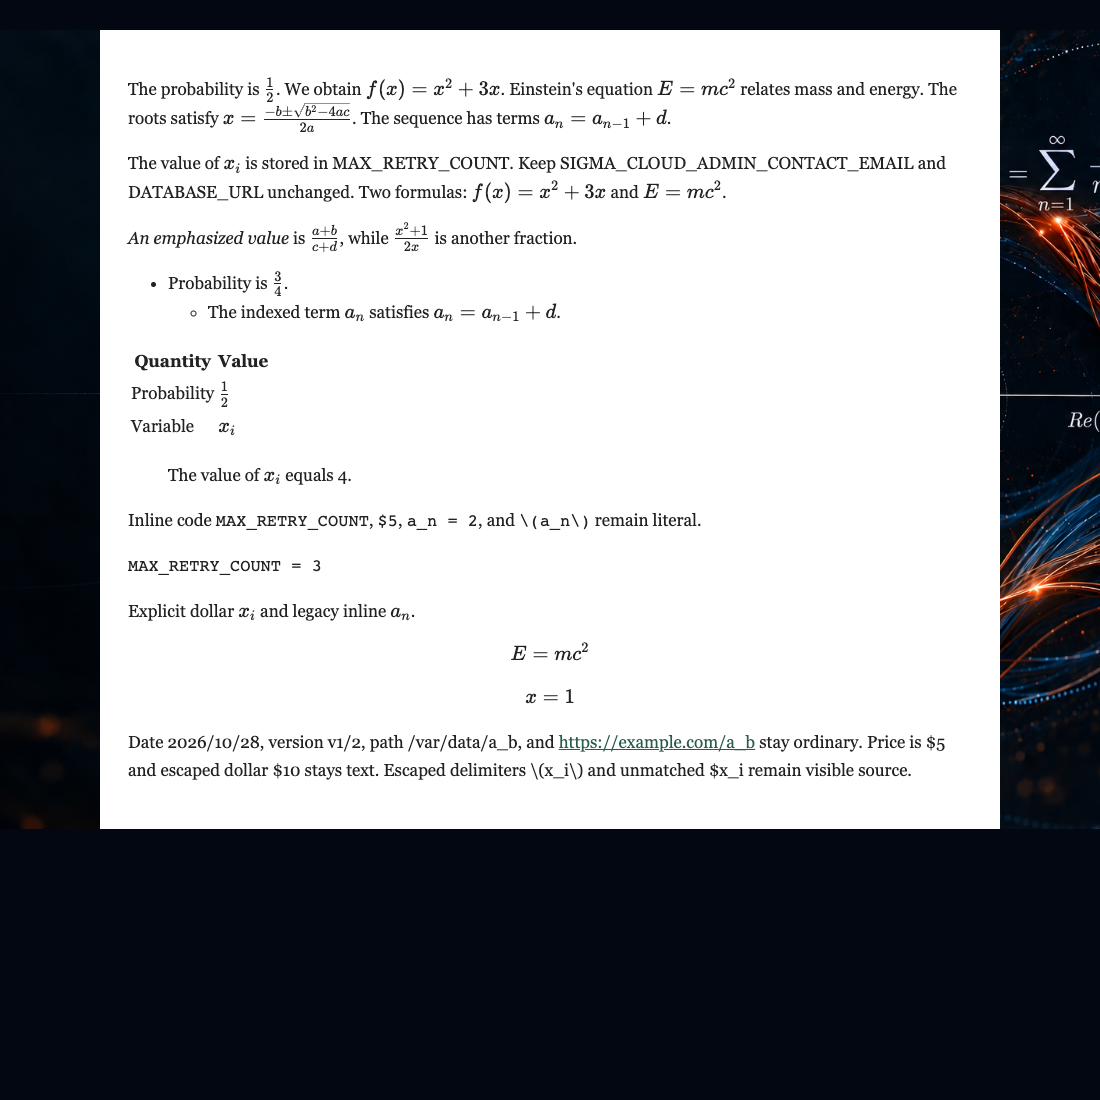
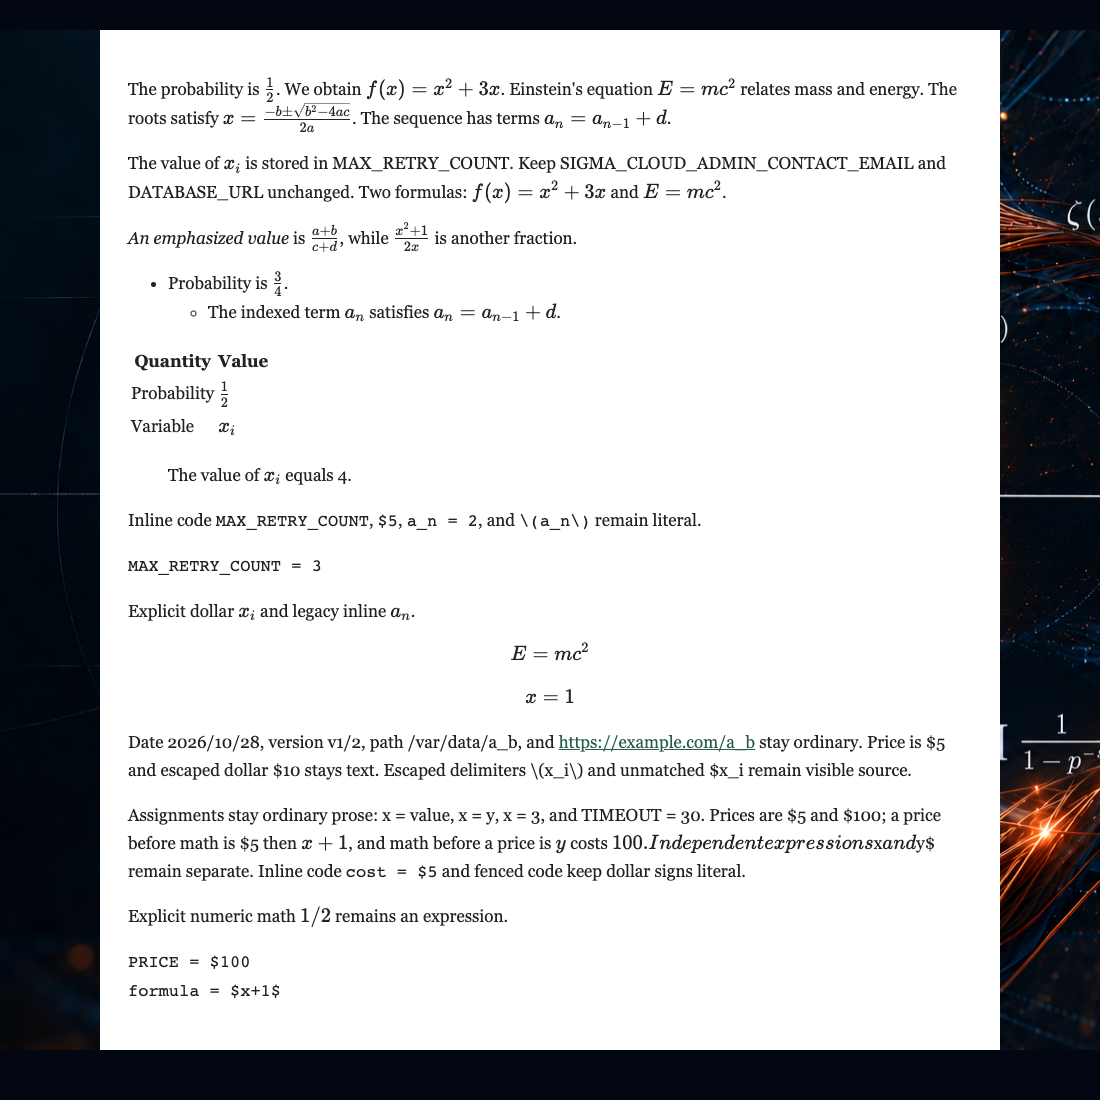
Refine math equation and currency recognition

diff --git a/frontend/src/RenderedMarkdown.tsx b/frontend/src/RenderedMarkdown.tsx
@@ -72,7 +72,14 @@ function candidates(text: string, structuralContext = ''): Candidate[] {
   // A local equation is a mathematical span even when ordinary prose follows it.
   add(/\b(?:[a-zα-ω]|[A-Z])(?:_[a-zA-Zα-ωΑ-Ω\d{}+-]+)?(?:\([^()\s]{1,24}\))?\s*=\s*[\p{L}\p{N}²³√±−+*/^_{}()\[\]\-]+(?:\s*[=+−*/±]\s*[\p{L}\p{N}²³√±−+*/^_{}()\[\]\-]+)*/gu, 6, match => {
     const expression = match[0].trim().replace(/[.,;:!?]+$/u, '');
-    if (!/[\p{L}\d]/u.test(expression.slice(expression.indexOf('=') + 1))) return false;
+    const equalsAt = expression.indexOf('=');
+    const right = expression.slice(equalsAt + 1).trim();
+    if (!/[\p{L}\d]/u.test(right)) return false;
+    const boundary = Math.max(text.lastIndexOf('.', match.index), text.lastIndexOf('!', match.index), text.lastIndexOf('?', match.index), text.lastIndexOf(';', match.index), 0);
+    const precedingSentence = text.slice(Math.max(boundary, match.index - 100), match.index).toLowerCase();
+    const hasMathematicalCue = /\b(?:equation|root|roots|sequence|term|variable|function|probability|fraction|ratio|solution|solve|formula|identity|satisf(?:y|ies)|denote|defined|let|obtain|substitute|calculate|compute|evaluate|algebraic|mathematical)\b/u.test(precedingSentence);
+    const hasFormulaStructure = /[+−\-*/^_{}²³√±×÷<>≤≥≠≈∑∫]/u.test(right);
+    if (!hasFormulaStructure && !hasMathematicalCue) return false;
     // Trim a natural-language continuation after a mathematical expression.
     const trimmed = expression.replace(/\s+(?:(?:relates|where|which|that|and|or|for|with|from|to|is|are|was|were|because|since|as|if|then)\b|[A-Z][a-z]+(?:['’]s)?\s+equation\b)[\s\S]*$/u, '').trim();
     if (trimmed.length < 3) return false;
@@ -198,16 +205,25 @@ export function markdownWithMathDelimiters(body: string): string {
         positions.push(index);
       }
       const unmatched = new Set<number>();
-      for (let index = 0; index < positions.length; index += 2) {
-        const open = positions[index];
-        const close = positions[index + 1];
-        const looksLikeCurrency = close !== undefined
-          && /^\d/u.test(segment[open + 1] ?? '')
-          && /^\d+\s/u.test(segment.slice(open + 1, close));
-        if (close === undefined || looksLikeCurrency) {
-          unmatched.add(open);
-          if (close !== undefined) unmatched.add(close);
-        }
+      // Currency markers are literal individually, before pairing math markers.
+      // This permits "$5 then $x+1$" and "$x+1$ costs $100" without allowing a
+      // price to consume the opening/closing delimiter of a neighboring formula.
+      const isCurrency = (position: number) => {
+        if (segment[position + 1] === '$' || !/^\d/u.test(segment[position + 1] ?? '')) return false;
+        const amount = segment.slice(position + 1).match(/^\d+(?:,\d{3})*(?:\.\d{1,2})?/u)?.[0];
+        if (!amount) return false;
+        const afterAmount = segment[position + 1 + amount.length] ?? '';
+        return !/[\d\w./\\^]/u.test(afterAmount);
+      };
+      const mathPositions = positions.filter(position => {
+        if (!isCurrency(position)) return true;
+        unmatched.add(position);
+        return false;
+      });
+      for (let index = 0; index < mathPositions.length; index += 2) {
+        const open = mathPositions[index];
+        const close = mathPositions[index + 1];
+        if (close === undefined) unmatched.add(open);
       }
       return [...segment].map((character, index) => unmatched.has(index) ? `\\${character}` : character).join('');
     };

diff --git a/browser_checks/t301_markdown_math.py b/browser_checks/t301_markdown_math.py
@@ -9,11 +9,13 @@ BASE_URL = os.environ.get("SIGMA_BROWSER_BASE_URL", "http://127.0.0.1:5193")
 BODY = (
     Path("docs/evaluations/t301/markdown-regression-output.md").read_text(encoding="utf-8").rstrip()
 )
-RAW_BODY = r"""The probability is 1/2. We obtain f(x) = x² + 3x and E = mc². The roots satisfy x = (-b ± √(b²-4ac))/(2a). The sequence has terms a_n = a_(n-1) + d. The value of x_i is stored in MAX_RETRY_COUNT. The fraction is (a+b)/(c+d). Inline `MAX_RETRY_COUNT` and fenced code remain literal.
+RAW_BODY = r"""The probability is 1/2. We obtain f(x) = x² + 3x and E = mc². The roots satisfy x = (-b ± √(b²-4ac))/(2a). The sequence has terms a_n = a_(n-1) + d. The value of x_i is stored in MAX_RETRY_COUNT. The fraction is (a+b)/(c+d). Inline `MAX_RETRY_COUNT` and fenced code remain literal. Ordinary assignments x = value, x = y, and x = 3 remain prose. Configuration DATABASE_URL = value stays literal.
 
 ```python
 MAX_RETRY_COUNT = 3
-```"""
+```
+
+Ordinary assignments stay ordinary: x = value, x = y, and x = 3. The setting RETRY_LIMIT = 5 is prose too."""
 
 
 with sync_playwright() as playwright:
@@ -40,7 +42,7 @@ with sync_playwright() as playwright:
         BODY,
     )
     root = page.locator("#t301-math-regression")
-    expect(root.locator(".katex")).to_have_count(20)
+    expect(root.locator(".katex")).to_have_count(25)
     math_tex = root.locator(".katex").evaluate_all(
         "nodes => nodes.map(node => node.querySelector('annotation')?.textContent || '')"
     )
@@ -52,6 +54,7 @@ with sync_playwright() as playwright:
         "a_n = a_{n-1} + d",
         r"\frac{a+b}{c+d}",
         r"\frac{x^2+1}{2x}",
+        "1/2",
     ):
         assert expression in math_tex, f"Missing expected typeset expression: {expression}"
     assert not any("MAX_RETRY_COUNT" in expression for expression in math_tex)
@@ -60,8 +63,8 @@ with sync_playwright() as playwright:
     expect(root.locator("table tbody tr").nth(0).locator(".katex")).to_have_count(1)
     expect(root.locator("em")).to_contain_text("An emphasized value")
     expect(root.locator("li li .katex")).to_have_count(2)
-    expect(root.locator("code")).to_have_count(5)
-    expect(root.locator("pre code")).to_contain_text("MAX_RETRY_COUNT = 3")
+    expect(root.locator("code")).to_have_count(7)
+    expect(root.locator("pre code").nth(0)).to_contain_text("MAX_RETRY_COUNT = 3")
     expect(root).to_contain_text("MAX_RETRY_COUNT")
     expect(root).to_contain_text("SIGMA_CLOUD_ADMIN_CONTACT_EMAIL")
     expect(root).to_contain_text("DATABASE_URL")
@@ -70,6 +73,13 @@ with sync_playwright() as playwright:
     expect(root).to_contain_text("/var/data/a_b")
     expect(root).to_contain_text("https://example.com/a_b")
     expect(root).to_contain_text("$5")
+    expect(root).to_contain_text("$100")
+    expect(root).to_contain_text("Assignments stay ordinary prose: x = value, x = y, x = 3")
+    expect(root).to_contain_text("Prices are $5 and $100")
+    expect(root.locator(".katex").filter(has_text="TIMEOUT")).to_have_count(0)
+    expect(root.locator(".katex").filter(has_text="RETRY_LIMIT")).to_have_count(0)
+    expect(root.locator("code").nth(5)).to_contain_text("cost = $5")
+    expect(root.locator("pre code").nth(1)).to_contain_text("PRICE = $100")
     expect(root.locator(".katex").filter(has_text="MAX_RETRY_COUNT")).to_have_count(0)
     expect(root.locator(".katex").filter(has_text="DATABASE_URL")).to_have_count(0)
     expect(root.locator(".katex").filter(has_text="2026")).to_have_count(0)
@@ -104,6 +114,11 @@ with sync_playwright() as playwright:
     ):
         assert expression in raw_tex, f"Bare notation was not recognized: {expression}"
     expect(raw).to_contain_text("MAX_RETRY_COUNT")
+    expect(raw).to_contain_text("x = value, x = y, and x = 3")
+    expect(raw).to_contain_text("DATABASE_URL = value")
+    expect(raw.locator(".katex").filter(has_text="x = value")).to_have_count(0)
+    expect(raw.locator(".katex").filter(has_text="x = y")).to_have_count(0)
+    expect(raw.locator(".katex").filter(has_text="DATABASE_URL")).to_have_count(0)
     expect(raw.locator(".katex").filter(has_text="MAX_RETRY_COUNT")).to_have_count(0)
     expect(raw.locator("code")).to_have_count(2)
     page.screenshot(path="docs/evaluations/t301/markdown-render-raw-math.png", full_page=True)

diff --git a/tests/text_views.py b/tests/text_views.py
@@ -1018,7 +1018,13 @@ async def main_async(root: Path):
         "| Kind | Value |\n| --- | --- |\n| Probability | 3/4 |\n\n"
         "Inline `a_n = 2` and fenced identifiers remain literal.\n\n"
         "```python\nMAX_RETRY_COUNT = 3\n```\n\n"
-        r"Escaped \(x_i\); unmatched $x_i stays text."
+        r"Escaped \(x_i\); unmatched $x_i stays text." + "\n\n"
+        "Ordinary assignments x = value, x = y, and x = 3 plus configuration "
+        "RETRY_LIMIT = 5 remain prose. Multiple prices are $5 and $100. "
+        "Currency before explicit $x+1$ and math before currency $y$ costs $100; "
+        "independent formulas $x$ and $y$ stay distinct. Escaped \\$10 and unmatched $x_i stay text.\n\n"
+        "Inline `cost = $5` and fenced code remain literal.\n\n"
+        "```text\nPRICE = $100\nformula = $x+1$\n```"
     )
     math_markdown = (
         Path("docs/evaluations/t301/markdown-regression-output.md")

diff --git a/docs/STATUS.md b/docs/STATUS.md
@@ -4,7 +4,11 @@ The existing AI conversion prompt now explicitly distinguishes math from prose
 using sentence meaning and preserves code identifiers, environment variables,
 URLs, paths, dates, versions, currency, escaped delimiters and Markdown
 structure. `RenderedMarkdown` now applies conservative recognition to Markdown
-text nodes, so equations, context-labeled fractions and indexed variables can
+text nodes: a bare equation needs mathematical structure or a nearby math cue,
+so assignment-shaped prose such as `x = value`, `x = y`, and `x = 3` remains
+ordinary text. Dollar amounts are excluded individually before delimiter
+pairing, preserving prices adjacent to explicit inline math. Equations,
+context-labeled fractions and indexed variables can
 typeset inside paragraphs, emphasis, lists, blockquotes and GFM tables while
 inline code, fences and link labels remain protected. Paired legacy `\(...\)`
 and `\[...\]` delimiters convert safely; unmatched dollars are treated as
@@ -15,10 +19,12 @@ the small `remark-gfm` plugin; KaTeX remains the renderer.
 `POST /api/projects/text/convert` route using one deterministic mocked provider
 response. It verifies the prompt, exact stored Markdown and unchanged source
 project bytes. `browser_checks/t301_markdown_math.py` passed against the real
-React Markdown component in Chrome, checking 20 KaTeX spans and exact TeX
+React Markdown component in Chrome, checking 25 KaTeX spans and exact TeX
 annotations for formulas, fractions, subscripts and the quadratic root formula.
-It also checks GFM table/list structure, source-code preservation, identifiers,
-dates, paths, URLs, currency and delimiters. Screenshots of the converted
+Adversarial checks cover plain assignments and configuration values, multiple
+prices before and after explicit math, independent math delimiters, code
+dollars, and literal text preservation. It also checks GFM table/list structure,
+identifiers, dates, paths, URLs and escaped/unmatched delimiters. Screenshots of the converted
 fixture and bare math are
 [markdown-render.png](evaluations/t301/markdown-render.png) and
 [markdown-render-raw-math.png](evaluations/t301/markdown-render-raw-math.png).

diff --git a/tickets/t301.md b/tickets/t301.md
@@ -29,3 +29,14 @@ semantic judgment is **UNVERIFIED** because it would require a provider call.
 See [T301 evidence](../docs/evaluations/t301/README.md) and the committed
 handoff under `messages/`. [PR #314](https://github.com/bkramerext/sigma/pull/314)
 is open against `main` and has not been merged.
+
+### Consolidated review follow-up
+
+The equation matcher conservatively leaves assignment-like prose (`x = value`,
+`x = y`, `x = 3`, configuration assignments) untypeset unless mathematical
+structure or nearby mathematical wording establishes context. Dollar-price
+classification now precedes delimiter pairing, so multiple currency amounts
+stay literal next to explicit formulas. The shared deterministic API fixture and
+real Chrome regression verify both KaTeX annotations and preserved literal
+rendered text. Latest fetched `origin/main` remains the branch base; no rebase
+was needed. See the handoff for final HEAD and verification results.

diff --git a/docs/evaluations/t301/README.md b/docs/evaluations/t301/README.md
@@ -13,6 +13,12 @@ It checks the KaTeX TeX annotations for the expected formulas, as well as math
 in prose, lists, a nested list, a GFM table, blockquotes, inline code and a code
 fence. It also checks preservation of identifiers, dates, paths, URLs, currency,
 and malformed or escaped delimiters.
+Adversarial cases now include bare `x = value`, `x = y`, and `x = 3`, a
+configuration assignment, multiple `$5`/`$100` prices before and after explicit
+math, separate `$x$` and `$y$` expressions, and dollar signs in inline/fenced
+code. The browser check verifies literal rendered text alongside each KaTeX
+annotation, including the expected count of 25 KaTeX spans for the shared
+fixture and seven for bare source notation.
 
 ![Real Chrome rendering of the regression Markdown](markdown-render.png)
 

diff --git a/docs/evaluations/t301/markdown-regression-output.md b/docs/evaluations/t301/markdown-regression-output.md
@@ -29,3 +29,12 @@ $$
 \[x = 1\]
 
 Date 2026/10/28, version v1/2, path /var/data/a_b, and https://example.com/a_b stay ordinary. Price is $5 and escaped dollar \$10 stays text. Escaped delimiters \\(x_i\\) and unmatched $x_i remain visible source.
+
+Assignments stay ordinary prose: x = value, x = y, x = 3, and TIMEOUT = 30. Prices are $5 and $100; a price before math is $5 then $x+1$, and math before a price is $y$ costs $100. Independent expressions $x$ and $y$ remain separate. Inline code `cost = $5` and fenced code keep dollar signs literal.
+
+Explicit numeric math $1/2$ remains an expression.
+
+```text
+PRICE = $100
+formula = $x+1$
+```
